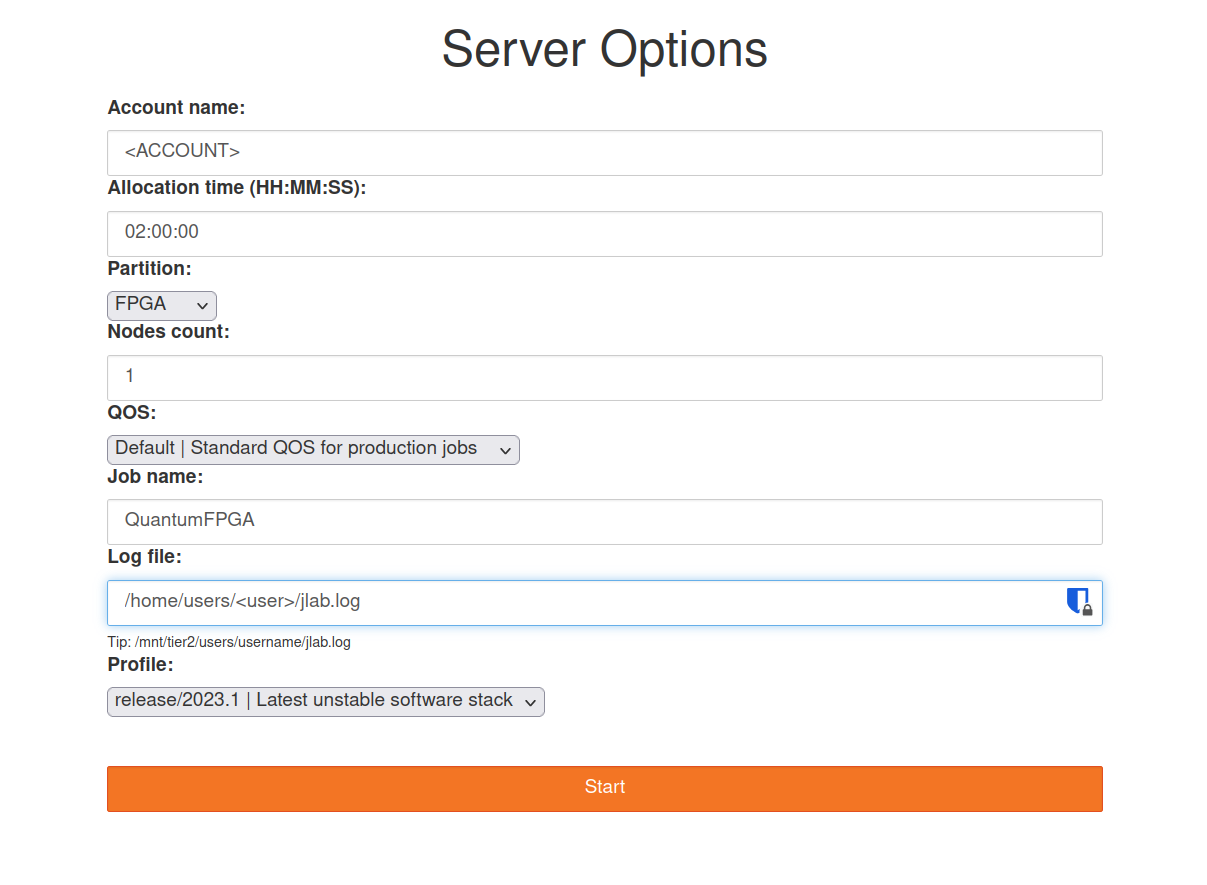
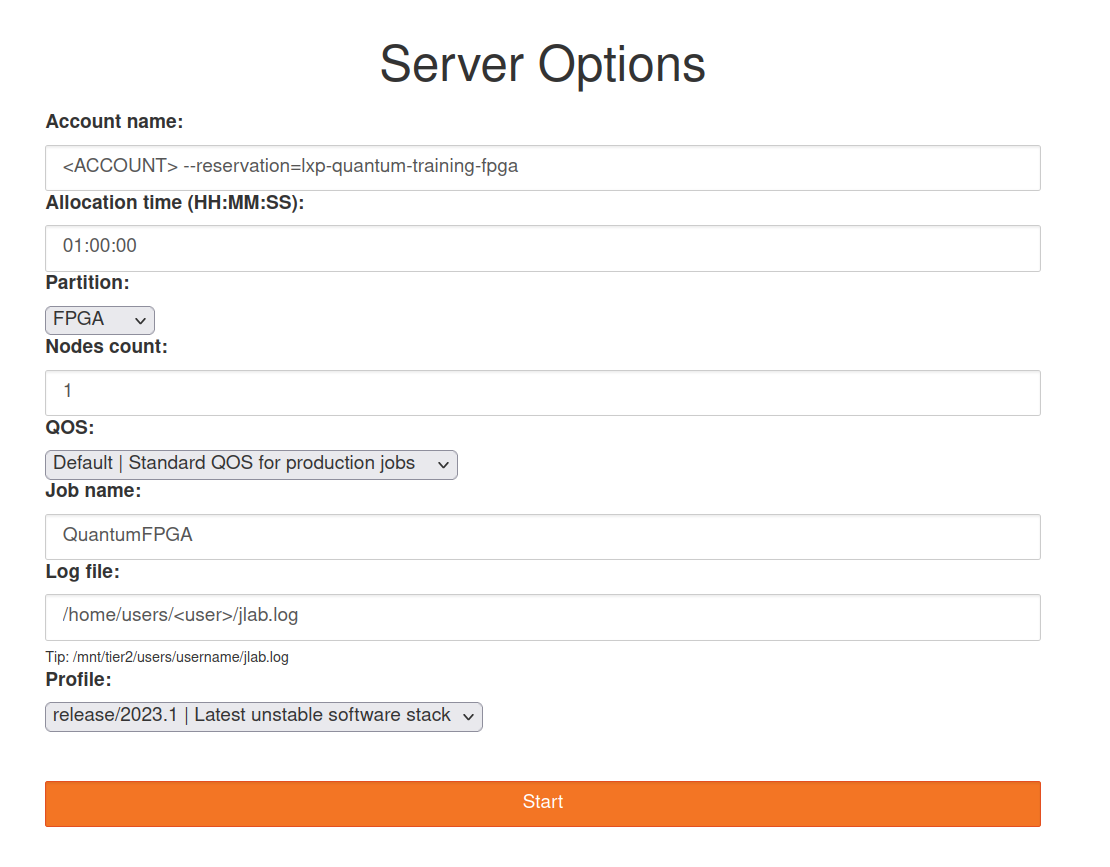
Added reservation to parameters

Changed region(s): [[0.0306, 0.0934, 0.9495, 0.9654], [0.3369, 0.0311, 0.6432, 0.0934]]

diff --git a/docs/compile.md b/docs/compile.md
@@ -80,7 +80,7 @@ Before targeting a specific hardware accelerator, you need to ensure that the sy
     # Create permanent tmux session
     tmux new -s fpga_session
     # We need a job allocation on a FPGA node
-    salloc -A <account> -t 48:00:00 -q default -p fpga -N 1
+    salloc --reservation=lxp-quantum-training-fpga -A <ACCOUNT> -t 48:00:00 -q default -p fpga -N 1
     # Load the staging environment
     module load env/staging/2023.1
     module load intel-fpga

diff --git a/docs/oneapi_quantum.md b/docs/oneapi_quantum.md
@@ -9,7 +9,7 @@
 !!! example "Commands"
     ```bash
     # Get one FPGA node with two FPGA cards
-    salloc -A <ACCOUNT> -t 02:00:00 -q default -p fpga -N1
+    salloc --reservation=lxp-quantum-training-fpga -A <ACCOUNT> -t 02:00:00 -q default -p fpga -N1
     module load env/staging/2023.1
     module load git-lfs
     module load CMake intel-fpga 520nmx
